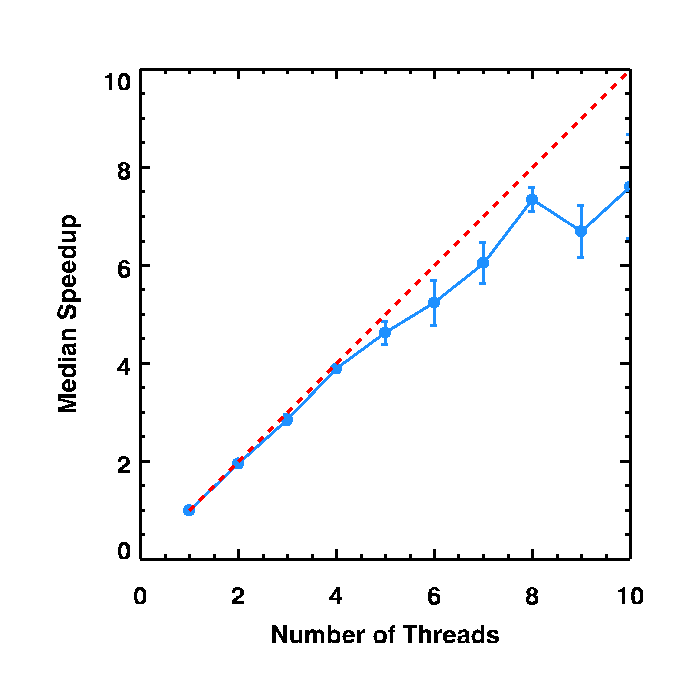
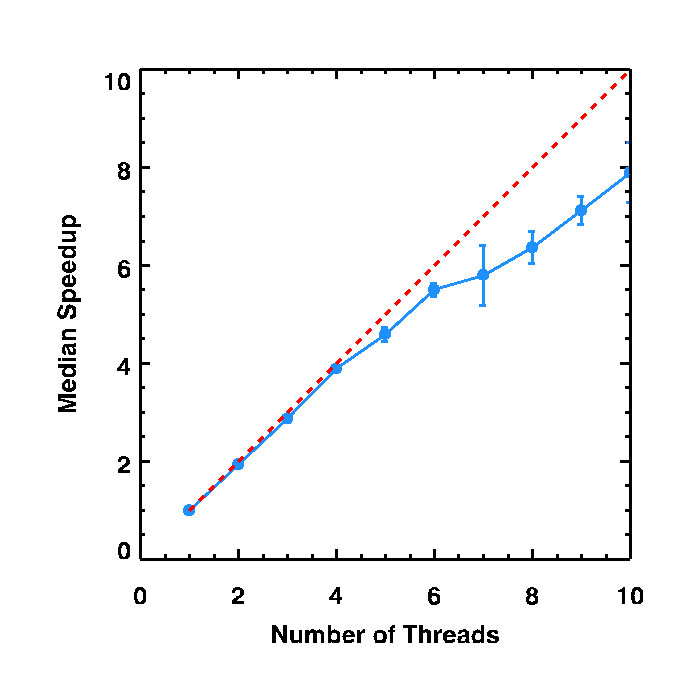
Undoing the changes - the updates improved scaling but the actual runtimes were longer. Remade the plots + timings

diff --git a/xi_theory/xi_rp_pi/countpairs_rp_pi.c b/xi_theory/xi_rp_pi/countpairs_rp_pi.c
@@ -109,23 +109,6 @@ results_countpairs_rp_pi * countpairs_rp_pi(const int64_t ND1, const DOUBLE *X1,
 	}
 	const int64_t totncells = (int64_t) nmesh_x * (int64_t) nmesh_y * (int64_t) nmesh_z;
 
-#ifdef USE_OMP
-	omp_set_num_threads(numthreads);
-	#pragma omp parallel for
-#endif
-	for(int64_t icell=0;icell<totncells;icell++){
-	  const cellarray *second=&(lattice2[icell]);
-	  DOUBLE *x = second->x;
-	  DOUBLE *y = second->y;
-	  DOUBLE *z = second->z;
-#define MULTIPLE_ARRAY_EXCHANGER(type,a,i,j) { SGLIB_ARRAY_ELEMENTS_EXCHANGER(DOUBLE,x,i,j); \
-		SGLIB_ARRAY_ELEMENTS_EXCHANGER(DOUBLE,y,i,j);					\
-		SGLIB_ARRAY_ELEMENTS_EXCHANGER(DOUBLE,z,i,j) }
-	  
-	  SGLIB_ARRAY_QUICK_SORT(DOUBLE, z, second->nelements, SGLIB_NUMERIC_COMPARATOR , MULTIPLE_ARRAY_EXCHANGER);
-	}
-
-
 #ifdef PERIODIC
 	const DOUBLE xdiff = (xmax-xmin);
 	const DOUBLE ydiff = (ymax-ymin);
@@ -329,9 +312,10 @@ results_countpairs_rp_pi * countpairs_rp_pi(const int64_t ND1, const DOUBLE *X1,
 								const AVX_FLOATS m_zero  = AVX_SET_FLOAT((DOUBLE) 0.0);
 								const AVX_FLOATS m_inv_dpi    = AVX_SET_FLOAT(inv_dpi);
 								
-								const AVX_FLOATS m_xdiff = AVX_SUBTRACT_FLOATS(m_x1pos,x2pos);
-								const AVX_FLOATS m_ydiff = AVX_SUBTRACT_FLOATS(m_y1pos,y2pos);
-								AVX_FLOATS m_zdiff       = AVX_SUBTRACT_FLOATS(m_z1pos,z2pos);
+								AVX_FLOATS m_zdiff       = AVX_SUBTRACT_FLOATS(z2pos,m_z1pos);
+								const AVX_FLOATS m_xdiff = AVX_SUBTRACT_FLOATS(x2pos,m_x1pos);
+								const AVX_FLOATS m_ydiff = AVX_SUBTRACT_FLOATS(y2pos,m_y1pos);
+								
 								m_zdiff = AVX_MAX_FLOATS(m_zdiff,AVX_SUBTRACT_FLOATS(m_zero,m_zdiff));//dz = fabs(dz) => dz = max(dz, -dz);
 								
 								AVX_FLOATS m_dist  = AVX_ADD_FLOATS(AVX_SQUARE_FLOAT(m_xdiff),AVX_SQUARE_FLOAT(m_ydiff));
@@ -342,17 +326,8 @@ results_countpairs_rp_pi * countpairs_rp_pi(const int64_t ND1, const DOUBLE *X1,
 									const AVX_FLOATS m_mask_pimax = AVX_COMPARE_FLOATS(m_zdiff,m_pimax,_CMP_LT_OS);
 									const int test = AVX_TEST_COMPARISON(m_mask_pimax);
 									if(test == 0) {
-									  if(iiz >= 0) {
-										j=second->nelements;
-										break;
-									  } else {
 										continue;
-									  }
 									}
-
-/* 									if(test == 0) { */
-/* 									  continue; */
-/* 									} */
 
 									const AVX_FLOATS m1 = AVX_COMPARE_FLOATS(m_dist,m_sqr_rpmin,_CMP_GE_OS);
 									m_dist = AVX_BLEND_FLOATS_WITH_MASK(m_sqr_rpmax,m_dist,m_mask_pimax);
@@ -382,8 +357,9 @@ results_countpairs_rp_pi * countpairs_rp_pi(const int64_t ND1, const DOUBLE *X1,
 										//m_mask_left = AVX_COMPARE_FLOATS(m_dist, m_rupp_sqr[kbin-1],_CMP_LT_OS);
 										m_mask_left = AVX_XOR_FLOATS(m_mask_low, m_all_ones);//XOR with 0xFFFF... gives the bins that are smaller than m_rupp_sqr[kbin] (and is faster than cmp_p(s/d) in theory)
 										const int test = AVX_TEST_COMPARISON(m_mask_left);
-										if(test==0)
+										if(test==0) {
 											break;
+										}
 									}
 									union_rpbin.m_ibin = AVX_TRUNCATE_FLOAT_TO_INT(m_rpbin);
 								}
